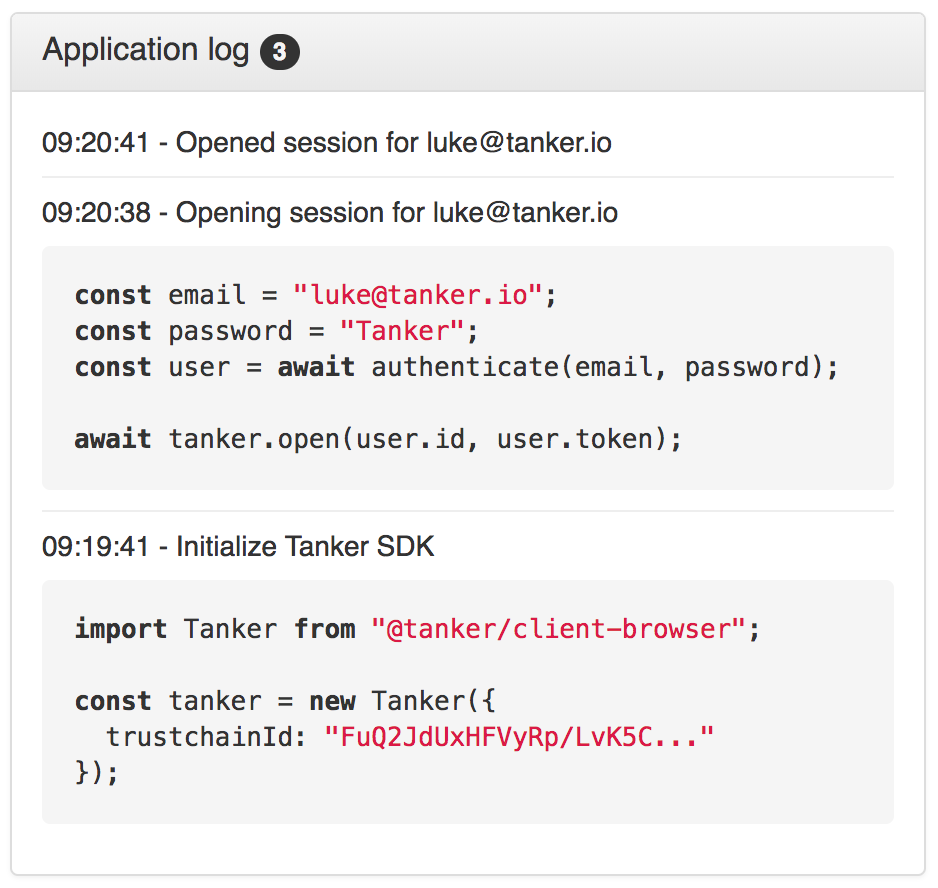
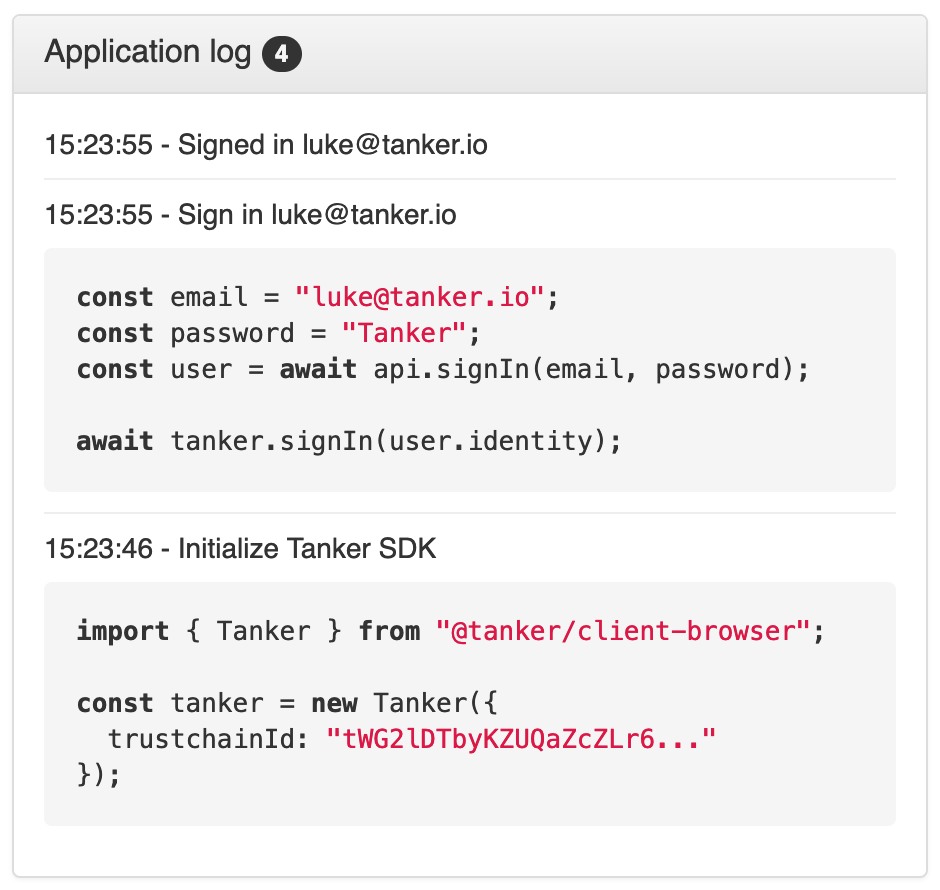
refactor(api-observer): use Tanker v2 APIs

diff --git a/client/web/api-observer/src/App.js b/client/web/api-observer/src/App.js
@@ -28,7 +28,7 @@ class App extends Component {
       const res = await doRequest(`${serverRoot}/config`);
       const config = await res.json();
       this.tanker = new Tanker(config);
-      this.log('initialize', config.trustchainId);
+      this.log('initTanker', config.trustchainId);
       this.setState({ loading: false });
     } catch (e) {
       this.log(e);
@@ -68,8 +68,8 @@ class App extends Component {
 
       const options = {};
       if (shareWith) {
-        const id = await this.getUserId(shareWith);
-        options.shareWithUsers = [id];
+        const publicIdentity = await this.fetchPublicIdentity(shareWith);
+        options.shareWithUsers = [publicIdentity];
       }
 
       this.log('encryption', clearText, shareWith);
@@ -107,35 +107,22 @@ class App extends Component {
     }
   }
 
-  authenticate = async (email, password) => {
-    const body = JSON.stringify({ email, password });
-    const headers = { 'Content-Type': 'application/json' };
-    const method = 'post';
-
-    // Authenticated request: always pass "Tanker" as password (mock auth)
-    let res = await doRequest(`${serverRoot}/login`, { body, headers, method });
-
-    // User not found
-    if (res.status === 404) {
-      res = await doRequest(`${serverRoot}/signup`, { body, headers, method });
-    }
-
-    return res.json();
-  }
-
-  getUserId = async (email) => {
-    const password = 'Tanker';
-    const { id } = await this.authenticate(email, password);
-    return id;
+  fetchPublicIdentity = async (email) => {
+    const response = await doRequest(`${serverRoot}/users`);
+    const users = await response.json();
+    const user = users.find(user => user.email === email);
+    if (!user)
+      throw new Error(`Could not find user with email ${email} on the server`);
+    return user.publicIdentity;
   }
 
   onClose = async () => {
-    this.log('closingSession', this.state.email);
+    this.log('signingOut', this.state.email);
 
-    await this.tanker.close();
+    await this.tanker.signOut();
     await doRequest(`${serverRoot}/logout`);
 
-    this.log('closedSession', this.state.email);
+    this.log('signedOut', this.state.email);
   }
 
   onOpen = async (event) => {
@@ -144,12 +131,44 @@ class App extends Component {
     const email = this.state.email;
     const password = 'Tanker'; // Note: this is for demo only
 
-    this.log('openingSession', email, password);
+    const body = JSON.stringify({ email, password });
+    const headers = { 'Content-Type': 'application/json' };
+    const method = 'post';
 
-    const user = await this.authenticate(email, password);
-    await this.tanker.open(user.id, user.token);
+    try {
+      let res = await doRequest(`${serverRoot}/login`, { body, headers, method });
 
-    this.log('openedSession', email);
+      // User signed in
+      if (res.status === 200) {
+        this.log('signIn', email, password);
+        const user = await res.json();
+
+        await this.tanker.signIn(user.identity);
+
+        this.log('signedIn', email);
+        return;
+      }
+
+      // User does not exist, need to sign up
+      if (res.status === 404) {
+        this.log('signUp', email, password);
+
+        res = await doRequest(`${serverRoot}/signup`, { body, headers, method });
+        if (res.status !== 201)
+          throw new Error(`Could not sign up to the server, status: ${res.status}, error: ${(await res.json()).error}`);
+
+        const user = await res.json();
+
+        await this.tanker.signUp(user.identity);
+
+        this.log('signedUp', email);
+        return;
+      }
+
+      throw new Error(`Could not authenticate to the server, status: ${res.status}, error: ${(await res.json()).error}`);
+    } catch (e) {
+      this.log(e);
+    }
   }
 
   render = () => {
@@ -180,7 +199,7 @@ class App extends Component {
                           value={email}
                           onChange={this.onEmailChange}
                           onKeyPress={event => {
-                            if (event.key === 'Enter' && email) {
+                            if (!sessionButtonDisabled && event.key === 'Enter' && email) {
                               if (this.tanker.status === this.tanker.CLOSED) {
                                 this.onOpen(event);
                               } else {

diff --git a/client/web/api-observer/src/log/entries.js b/client/web/api-observer/src/log/entries.js
@@ -3,19 +3,12 @@ const quoteEllipsis = (s, max = 10) => JSON.stringify(ellipsis(s, max));
 const quote = (s) => JSON.stringify(s);
 
 const getCodeEncryptAndShare = (text, shareWithEmail) => `
-const userId = getUserId(${quoteEllipsis(shareWithEmail)});
-const opts = { shareWithUsers: [userId] };
 const clear = ${quoteEllipsis(text, 20)};
-const binary = await tanker.encrypt(clear, opts);
+const user = fetchPublicIdentity(${quoteEllipsis(shareWithEmail, 8)});
+const binary = await tanker.encrypt(clear, {
+  shareWithUsers: [user]
+});
 const base64 = toBase64(binary);
-
-// Or:
-// const userId = getUserId(${quoteEllipsis(shareWithEmail)});
-// const opts = { shareWithUsers: [userId] };
-// const clear = ${quoteEllipsis(text, 20)};
-// const binary = await tanker.encrypt(clear);
-// const resourceId = await tanker.getResourceId(binary);
-// await tanker.share([resourceId], opts);
 `;
 
 const getCodeEncryptionOnly = (text) => `
@@ -25,7 +18,7 @@ const base64 = toBase64(binary);
 `;
 
 export default {
-  initialize: (trustchainId) => ({
+  initTanker: (trustchainId) => ({
     title: 'Initialize Tanker SDK',
     code: `
 import Tanker from "@tanker/client-browser";
@@ -59,25 +52,37 @@ const clear = await tanker.decrypt(binary);
     code: `clear === ${quoteEllipsis(clear, 20)}; // true`
   }),
 
-  closingSession: (email) => ({
-    title: `Closing session for ${email}`,
-    code: 'await tanker.close();'
+  signingOut: (email) => ({
+    title: `Sign out ${email}`,
+    code: 'await tanker.signOut();'
   }),
 
-  closedSession: (email) => ({ title: `Closed session for ${email}` }),
+  signedOut: (email) => ({ title: `Signed out ${email}` }),
 
-  openingSession: (email, password) => ({
-    title: `Opening session for ${email}`,
+  signUp: (email, password) => ({
+    title: `Sign up ${email}`,
     code: `
 const email = ${quote(email)};
 const password = ${quote(password)};
-const user = await authenticate(email, password);
+const user = await signUp(email, password);
 
-await tanker.open(user.id, user.token);
+await tanker.signUp(user.identity);
 `
   }),
 
-  openedSession: (email) => ({ title: `Opened session for ${email}` }),
+  signIn: (email, password) => ({
+    title: `Sign in ${email}`,
+    code: `
+const email = ${quote(email)};
+const password = ${quote(password)};
+const user = await signIn(email, password);
+
+await tanker.signIn(user.identity);
+`
+  }),
+
+  signedIn: (email) => ({ title: `Signed in ${email}` }),
+  signedUp: (email) => ({ title: `Signed up ${email}` }),
 
   serverHint: () => ({
     title: 'Have you started the server?',
